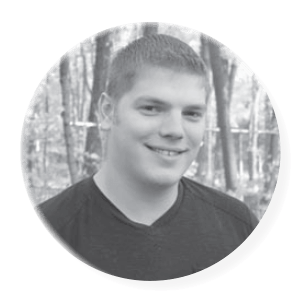
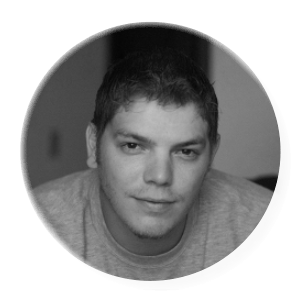
Update Zach & James photos, and remove speak section.

diff --git a/index.php b/index.php
@@ -20,7 +20,7 @@
 			<li><a href="#work">work</a></li>
 			<li><a href="#web">web</a></li>
 			<li><a href="#words">words</a></li>
-			<li><a href="#speak">speak</a></li>
+			<!--<li><a href="#speak">speak</a></li>-->
 			<li><a href="#connect">connect</a></li>
 		</ul>
 	</nav>
@@ -422,7 +422,8 @@
 		</div>
 
 	</section>
-
+	
+	<!--
 	<section id="speak" class="speak">
 		
 		<header>
@@ -464,6 +465,7 @@
 		</div>
 
 	</section>
+	-->
 
 	<section id="connect" class="connect">
 		
